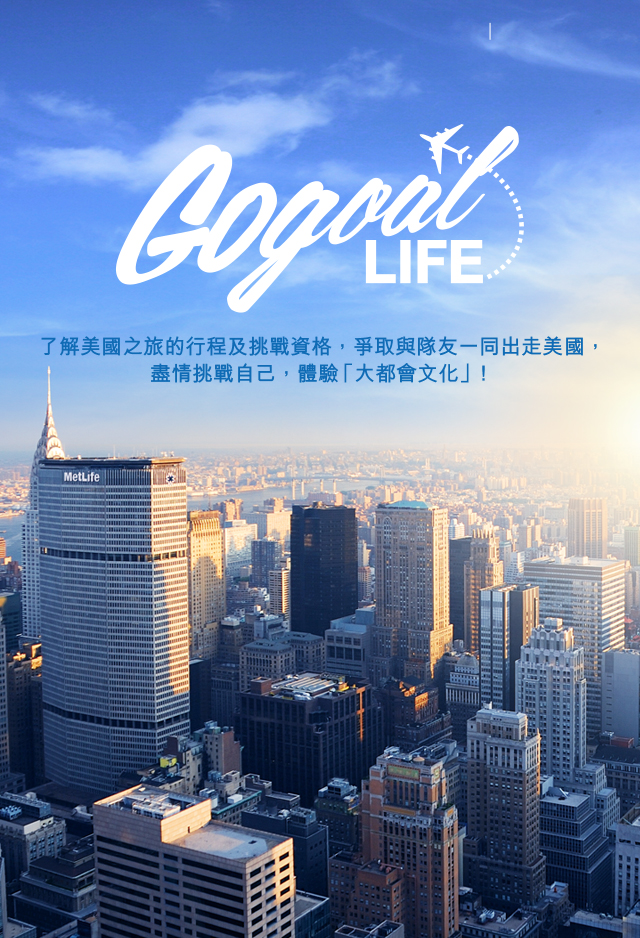
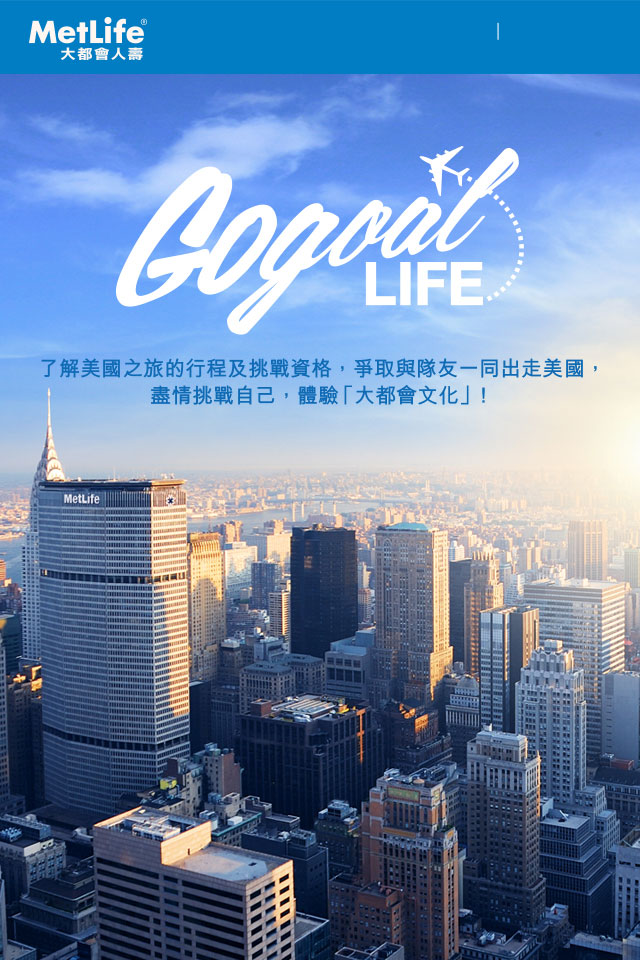
updated for deploy

diff --git a/client/styles/main.scss b/client/styles/main.scss
@@ -15,16 +15,16 @@ canvas{ display:none !important; opacity: 0!important; }
     &.active{ display:block; }
 }
 .backBtn{
-      position: absolute;
-  top: 23px; cursor:pointer;
-  left: 25px;
-  color: #FFF;
-  font-size: 18px;
-  background-image: url(/images/arrow-left-icon.png);
-  padding-left: 26px;
-  background-position: left center;
-  background-repeat: no-repeat;
-  height: 23px;
+    position: absolute;
+    top: 23px; cursor:pointer;
+    left: 25px;
+    color: #FFF;
+    font-size: 18px;
+    background-image: url(/images/arrow-left-icon.png);
+    padding-left: 26px;
+    background-position: left center;
+    background-repeat: no-repeat;
+    height: 23px;
 }
 .fancybox-next span{ visibility: visible; }
 .fancybox-prev span{ visibility: visible; }
@@ -115,8 +115,8 @@ canvas{ display:none !important; opacity: 0!important; }
 }
 .wrapper{ width:810px; margin:0 auto; position:relative; }
 #landing{
-    height: 795px; 
-    // height: 692px; 
+    // height: 795px; 
+    height: 692px; 
     overflow: hidden;
     .upper{
         width:100%; height:692px; background-image: url(../images/landing.jpg);
@@ -135,7 +135,7 @@ canvas{ display:none !important; opacity: 0!important; }
     }
     .lower{
         position:relative; background-color: #fff; 
-        // display:none;
+        display:none;
         &.active{ top:-100px !important; }
         .instagram{ 
             width:80px; height:79px; background-image: url(../images/instagram-hash.png); 
@@ -163,13 +163,14 @@ canvas{ display:none !important; opacity: 0!important; }
 .mobile{
     background-color: #3c62bc;
     .wrapper{ width:640px; }
+    .backBtn{ top:103px; }
     .about{ 
-        width: 110px; height: 50px; top: 7px; right: 21px; line-height: 67px; font-size: 18px; color: #FFF;
+        width: 110px; height: 50px; top: 7px; right: 13px; line-height: 67px; font-size: 18px; color: #FFF;
         background-image: url(../images/mobile/op.png);
         &:hover{ background-position: -110px center; }
     }
     .tnc{ 
-        width: 130px; height: 60px; top: 2px; right: 174px; line-height: 67px; font-size: 18px; color: #FFF; 
+        width: 130px; height: 60px; top: 2px; right: 164px; line-height: 67px; font-size: 18px; color: #FFF; 
         background-image: url(../images/mobile/tnc.png); 
         &:hover{ background-position: -130px center; }
     }
@@ -238,10 +239,10 @@ canvas{ display:none !important; opacity: 0!important; }
         }
     }
     #landing{
-        height:1045px;
-        // height:938px;
+        // height:1045px;
+        height:960px;
         .upper{ 
-            height:938px; background-image: url(../images/mobile/landing.jpg); 
+            height:960px; background-image: url(../images/mobile/landing.jpg); 
             .enterBtn{ 
                 top: 415px; height:256px; width:330px; left:160px;
                 .normalBtn, .hoverBtn{ 

diff --git a/index.html b/index.html
@@ -9,9 +9,9 @@
   <meta property="og:title" content="MetLife大都會人壽「Go Goal Life」體驗日">
   <meta property="og:description" content="參加由大都會人壽主辦的「Go Goal Life」招募活動，即有機會爭取與隊友免費到美國體驗大都會人生。立即登記~">
   <meta property="og:type" content="website">
-  <meta property="og:url" content="https://www.stage.metlife.com.hk/gogoallife/">
-  <meta property="og:image" content="https://www.stage.metlife.com.hk/gogoallife/images/share-image-update.jpg">
-  <meta property="og:image:secure_url" content="https://www.stage.metlife.com.hk/gogoallife/images/share-image-update.jpg">
+  <meta property="og:url" content="https://www.metlife.com.hk/gogoallife/">
+  <meta property="og:image" content="https://www.metlife.com.hk/gogoallife/images/share-image-update.jpg">
+  <meta property="og:image:secure_url" content="https://www.metlife.com.hk/gogoallife/images/share-image-update.jpg">
   <meta property="og:image:type" content="image/jpeg">
   <meta property="og:image:width" content="200">
   <meta property="og:image:height" content="200">
@@ -26,7 +26,7 @@
       return check;
     }
     if(mobilecheck()){
-      window.location.href = "https://www.stage.metlife.com.hk/gogoallife/mobile.html";
+      window.location.href = "https://www.metlife.com.hk/gogoallife/mobile.html";
     } else {
       window.location.href = "https://www.facebook.com/MetLifeHongKong/app_1604153426519614";
     }

diff --git a/client/scripts/main.js b/client/scripts/main.js
@@ -21,12 +21,15 @@ require(['class/SectionBase', 'class/SectionManager', 'class/CommonObject', 'cla
 
     _co.formSubmit = function(){
         var submittable = true;
+        var numReg = new RegExp(/^\d+$/);
         $('.formFileld').removeClass('empty');
         if($('#35').val() == ''){ submittable = false; $('.formContainer .date').addClass('empty'); }
         if($('#2').val() == ''){ submittable = false; $('.formContainer .name').addClass('empty'); }
         if($('#3').val() == ''){ 
             submittable = false; $('.formContainer .mobileInput').addClass('empty'); 
         } else if($('#3').val().length != 8){
+            submittable = false; $('.formContainer .mobileInput').addClass('empty'); 
+        } else if(!numReg.test($('#3').val())){
             submittable = false; $('.formContainer .mobileInput').addClass('empty'); 
         }
         if($('#4').val() == ''){ 
